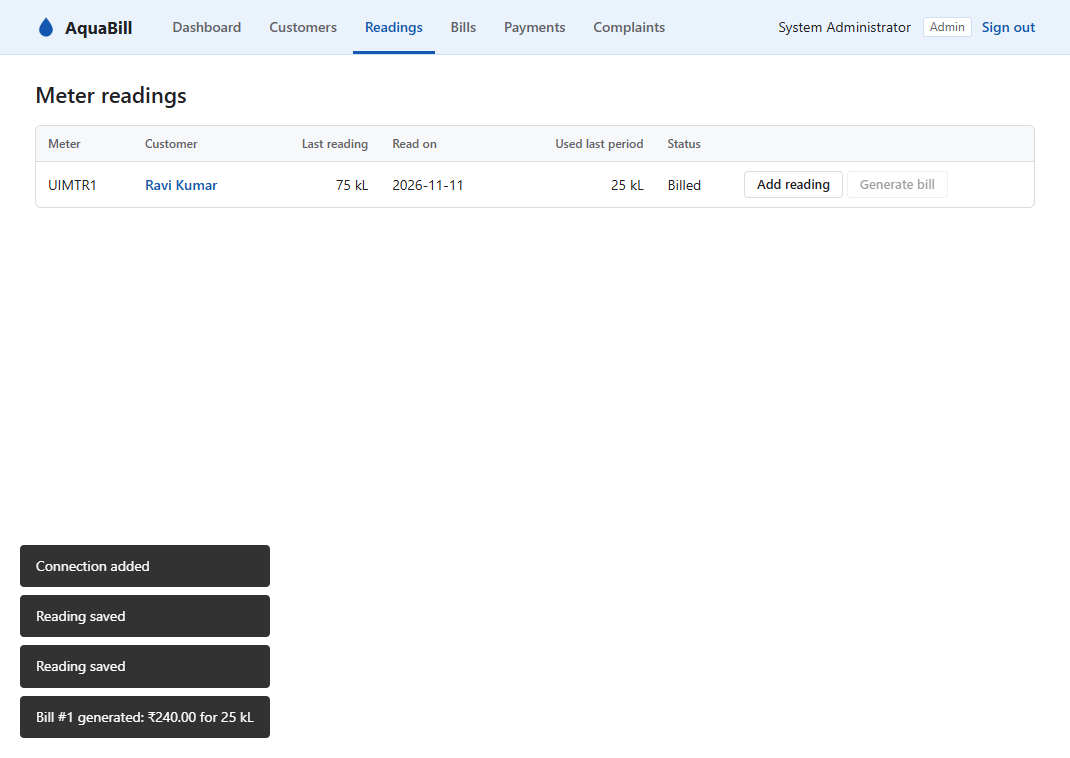
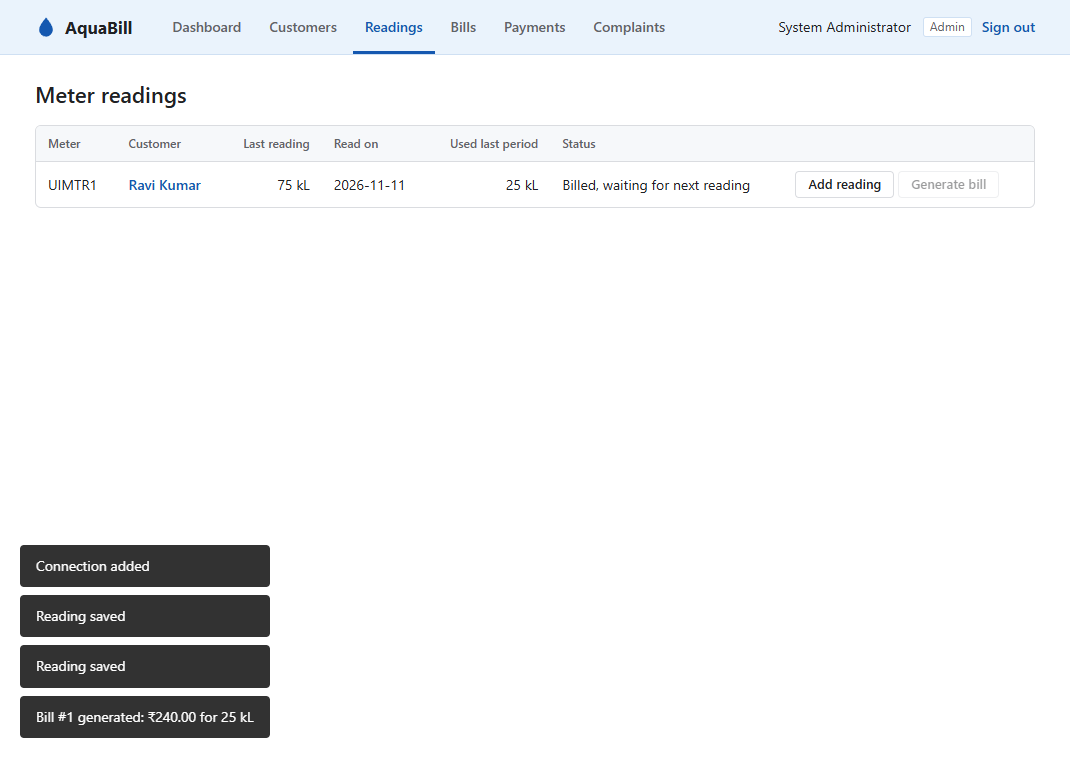
Add UI test TC-UI20 for one-step reading and billing

Changed region(s): [[0.2159, 0.1821, 0.6477, 0.2731], [0.5243, 0.2124, 0.8944, 0.2731], [0.1234, 0.1821, 0.2159, 0.2731]]

diff --git a/05_Test_Automation/test_ui_selenium.py b/05_Test_Automation/test_ui_selenium.py
@@ -460,3 +460,25 @@ def test_TC_UI19_dashboard_attention_link_opens_the_overdue_bills_filter(driver,
     WebDriverWait(driver, 8).until(EC.text_to_be_present_in_element((By.ID, "bill-rows"), "Overdue"))
     assert Select(driver.find_element(By.ID, "bill-filter")).first_selected_option.text == "Overdue"
     assert "Unpaid" not in driver.find_element(By.ID, "bill-rows").text
+
+
+def test_TC_UI20_save_reading_and_generate_bill_in_one_step(driver, base_url):
+    make_billed_customer(base_url, "onestep", "ONESTEP1")        # already billed: Generate bill is disabled
+    login_as_admin(driver)
+    open_page(driver, "readings")
+    gen = WebDriverWait(driver, 8).until(EC.presence_of_element_located((By.CSS_SELECTOR, ".gen-btn[data-meter='ONESTEP1']")))
+    time.sleep(0.5)
+    gen = driver.find_element(By.CSS_SELECTOR, ".gen-btn[data-meter='ONESTEP1']")
+    assert not gen.is_enabled()
+    assert "Add a new reading first" in gen.get_attribute("title")           # the reason is explained
+    assert "waiting for next reading" in driver.find_element(By.ID, "reading-rows").text
+    driver.find_element(By.CSS_SELECTOR, ".add-reading-btn[data-meter='ONESTEP1']").click()
+    wait_visible(driver, "rd-modal")
+    fill(driver, "m-read", 60)                                                # 25 kL since the last reading of 35
+    shot(driver, "UI20_save_and_generate")
+    driver.find_element(By.ID, "read-bill-btn").click()
+    assert "generated" in text_of(driver, "toast", "generated")
+    time.sleep(0.8)
+    assert not driver.find_element(By.CSS_SELECTOR, ".gen-btn[data-meter='ONESTEP1']").is_enabled()   # billed again
+    open_page(driver, "bills")
+    WebDriverWait(driver, 8).until(EC.text_to_be_present_in_element((By.ID, "bill-rows"), "Billed onestep"))
